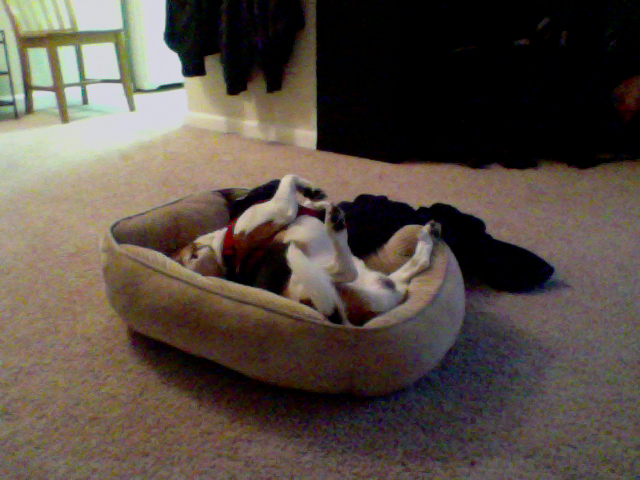
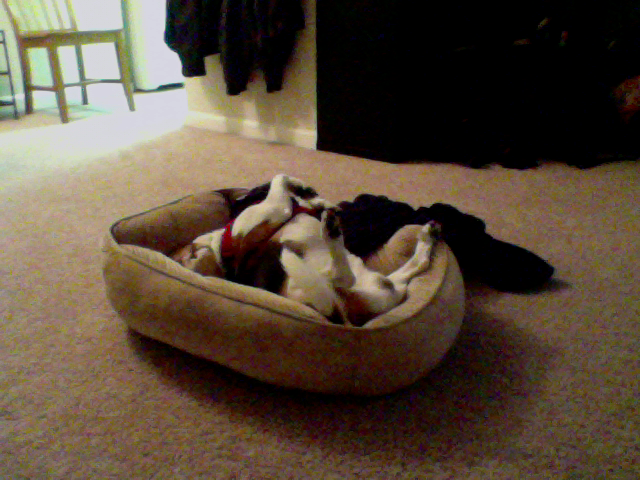
update at Month05Day07Time21:05

diff --git a/index.html b/index.html
@@ -39,8 +39,8 @@
       <!-- Example row of columns -->
       <div class="row">
         <div class="col-md-4">
-	<p>This picture was updated at Month05Day07Time21:04</p>
-		<img src="10_pic.png" />
+	<p>This picture was updated at Month05Day07Time21:05</p>
+		<img src="4_pic.png" />
         </div>
       </div>
 
